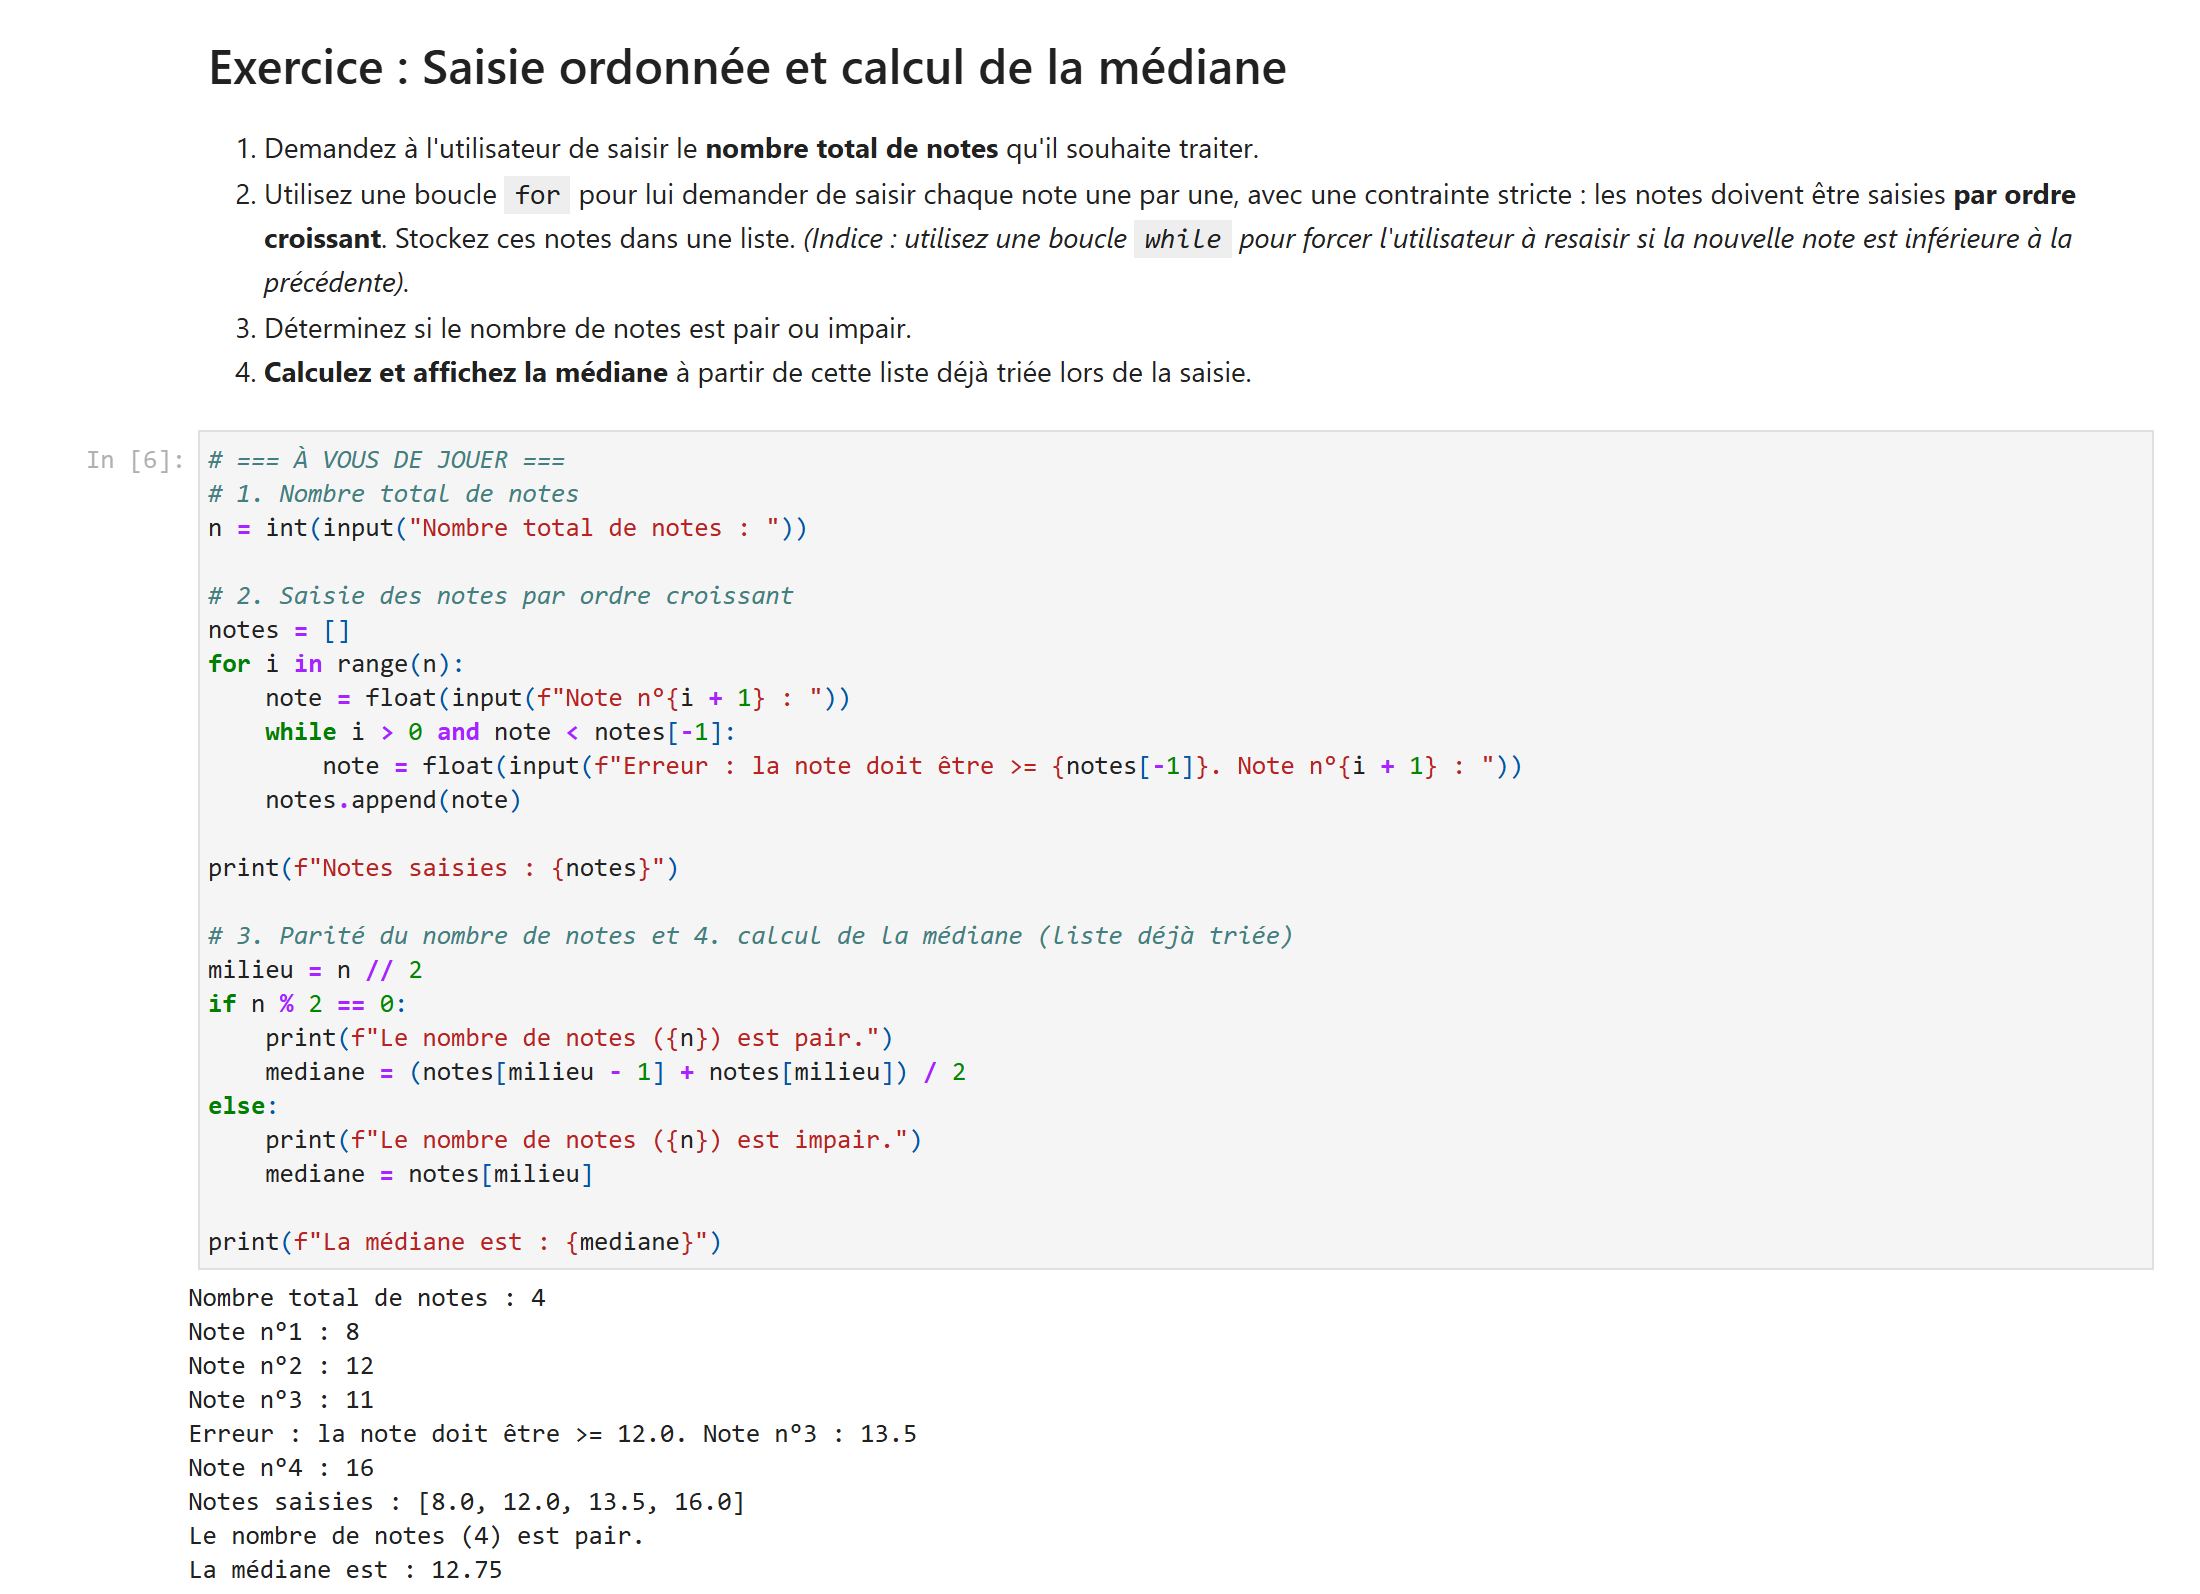
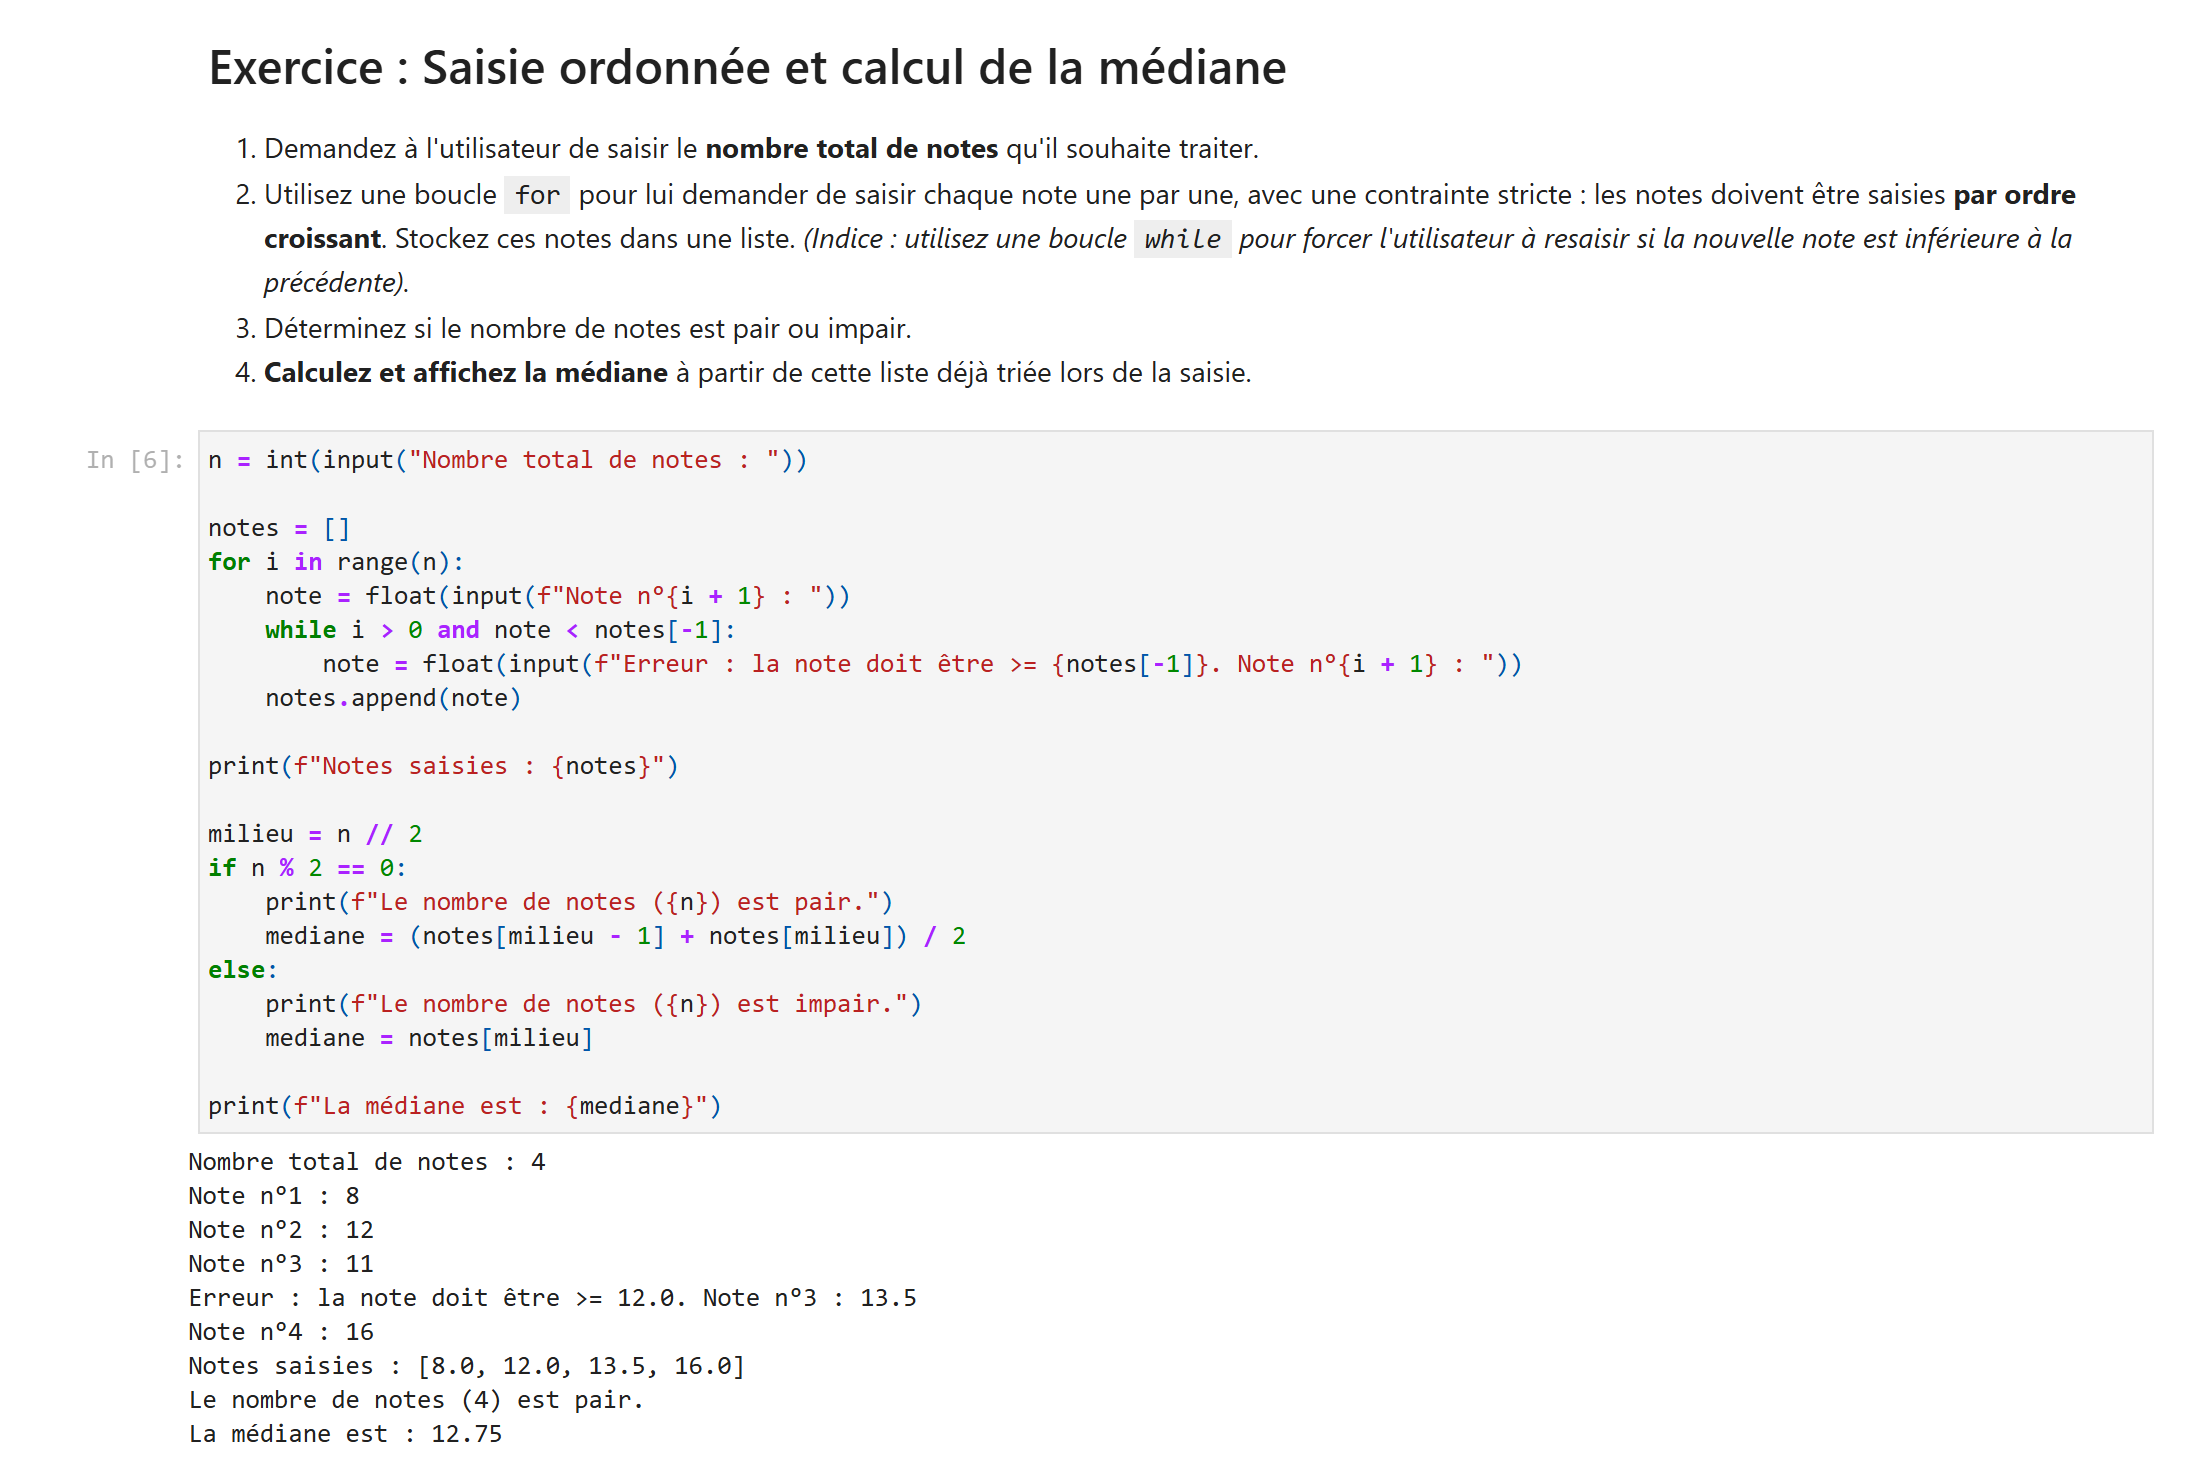
Suppression des commentaires du code

Changed region(s): [[0.0618, 0.0926, 0.9582, 1.0], [0.0927, 0.0309, 0.5873, 0.0617], [0.4018, 0.5864, 0.4636, 0.6173]]

diff --git a/TP1 Python (partie 1)/REPONSES.md b/TP1 Python (partie 1)/REPONSES.md
@@ -71,7 +71,7 @@ def ajouter_bonus(note, bonus=2):
 x = 10
 resultat = ajouter_bonus(x)
 print(f"Valeur retournée : {resultat}")
-print(f"x après l'appel : {x}")
+print(f"x après l'appel : {x}  -> la valeur initiale est restée intacte")
 
 notes = [12.0, 15.5]
 nouvelles_notes = list(map(ajouter_bonus, notes))
